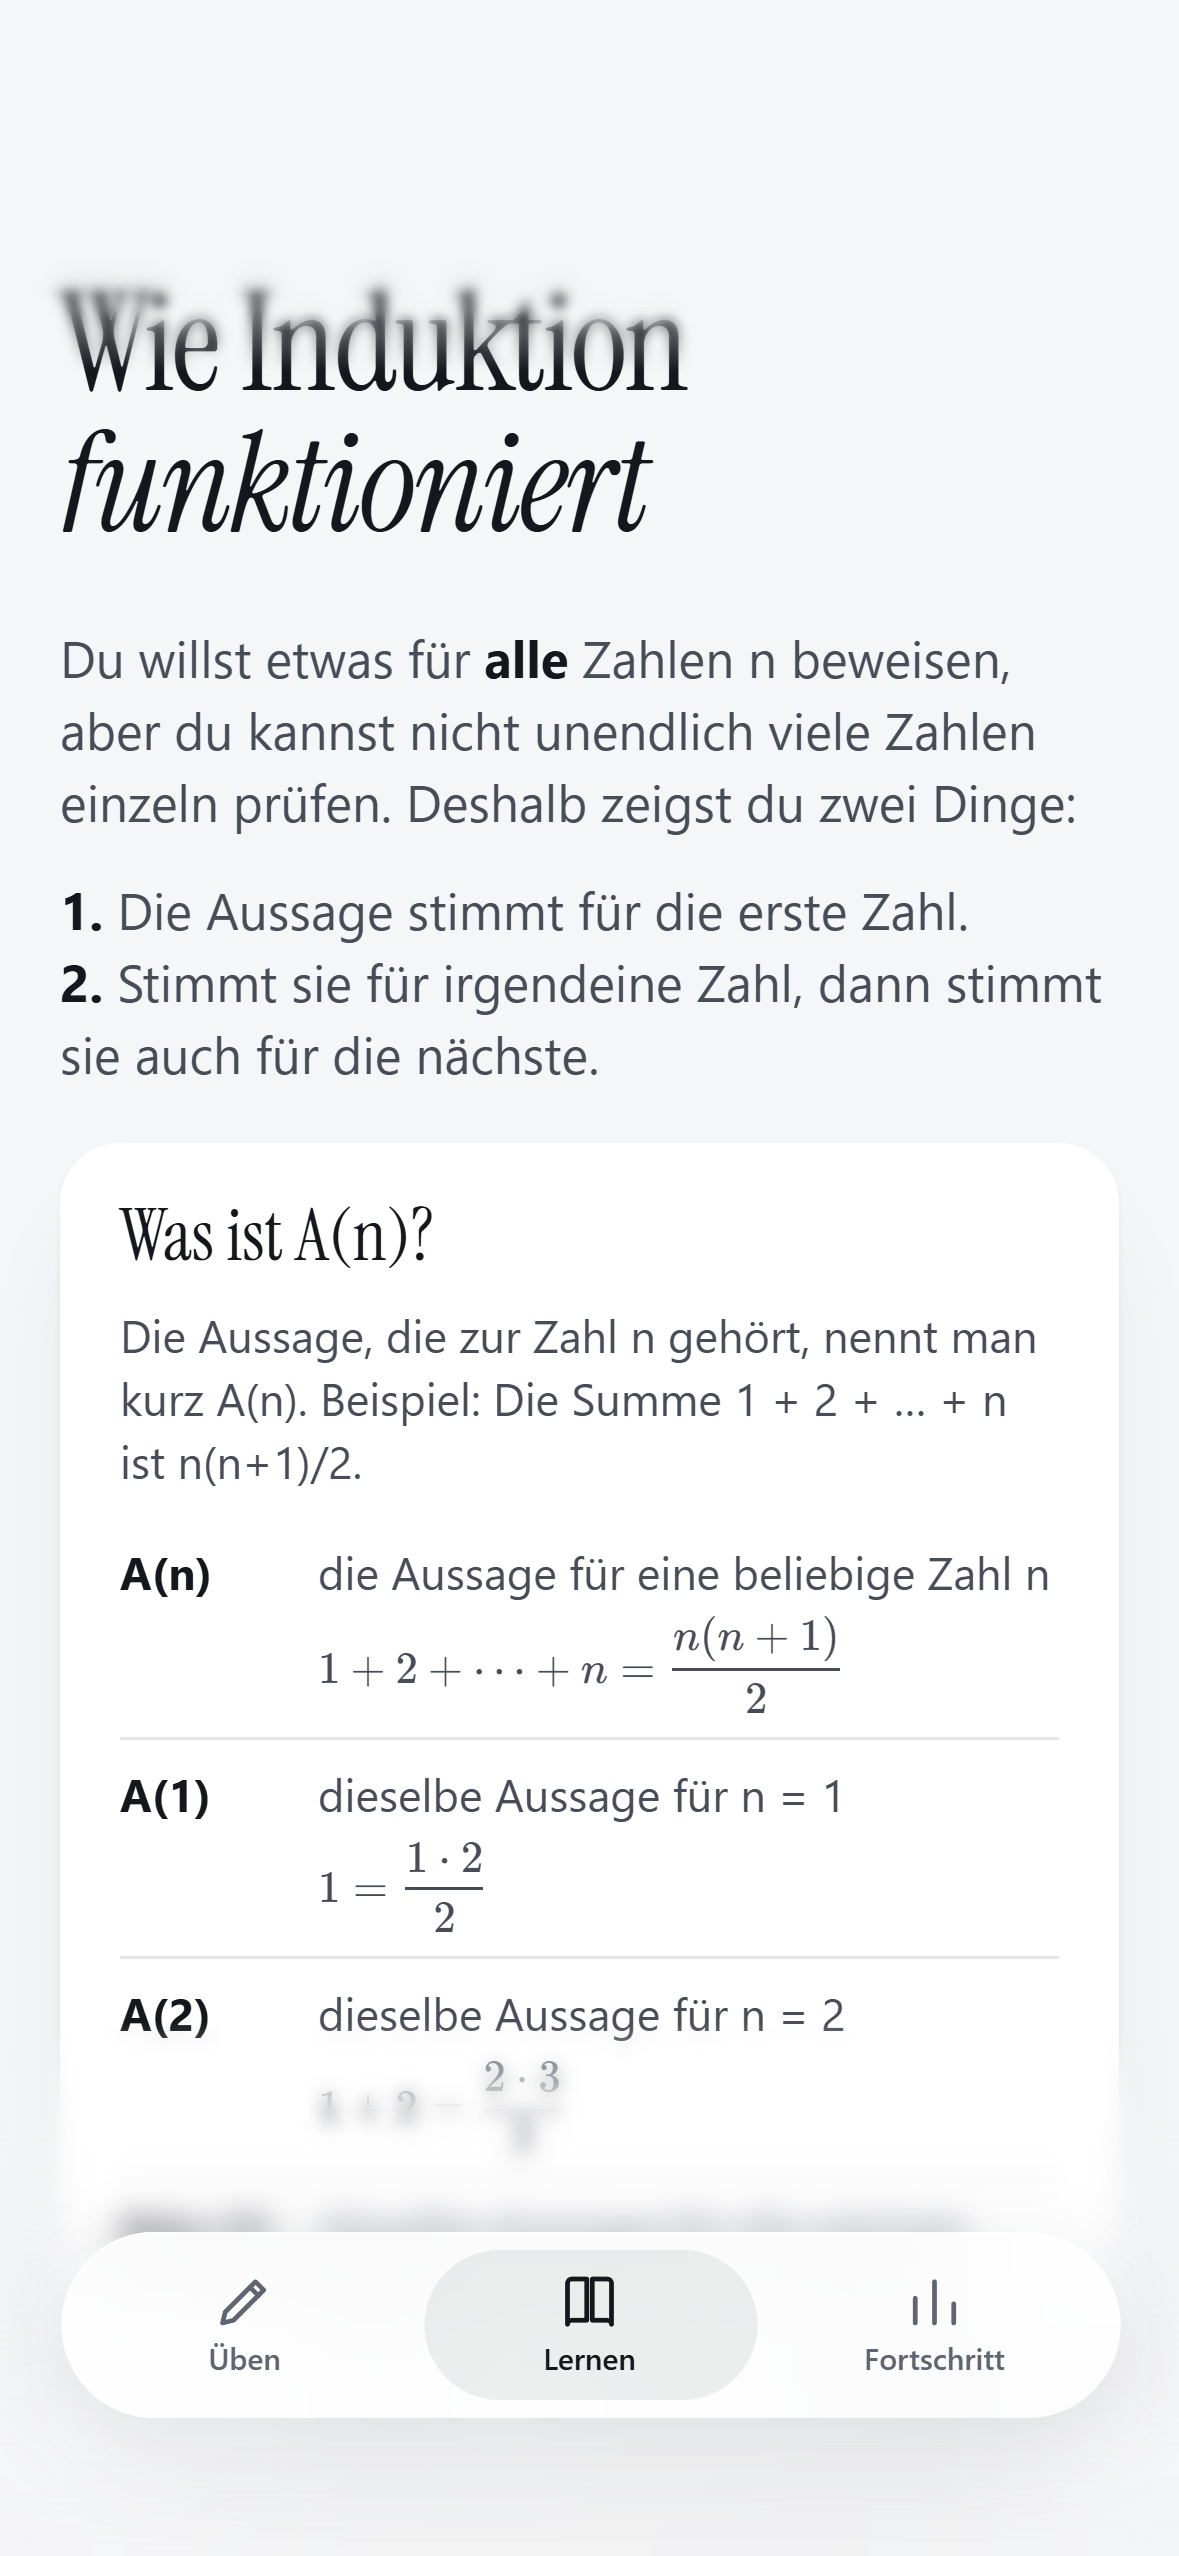
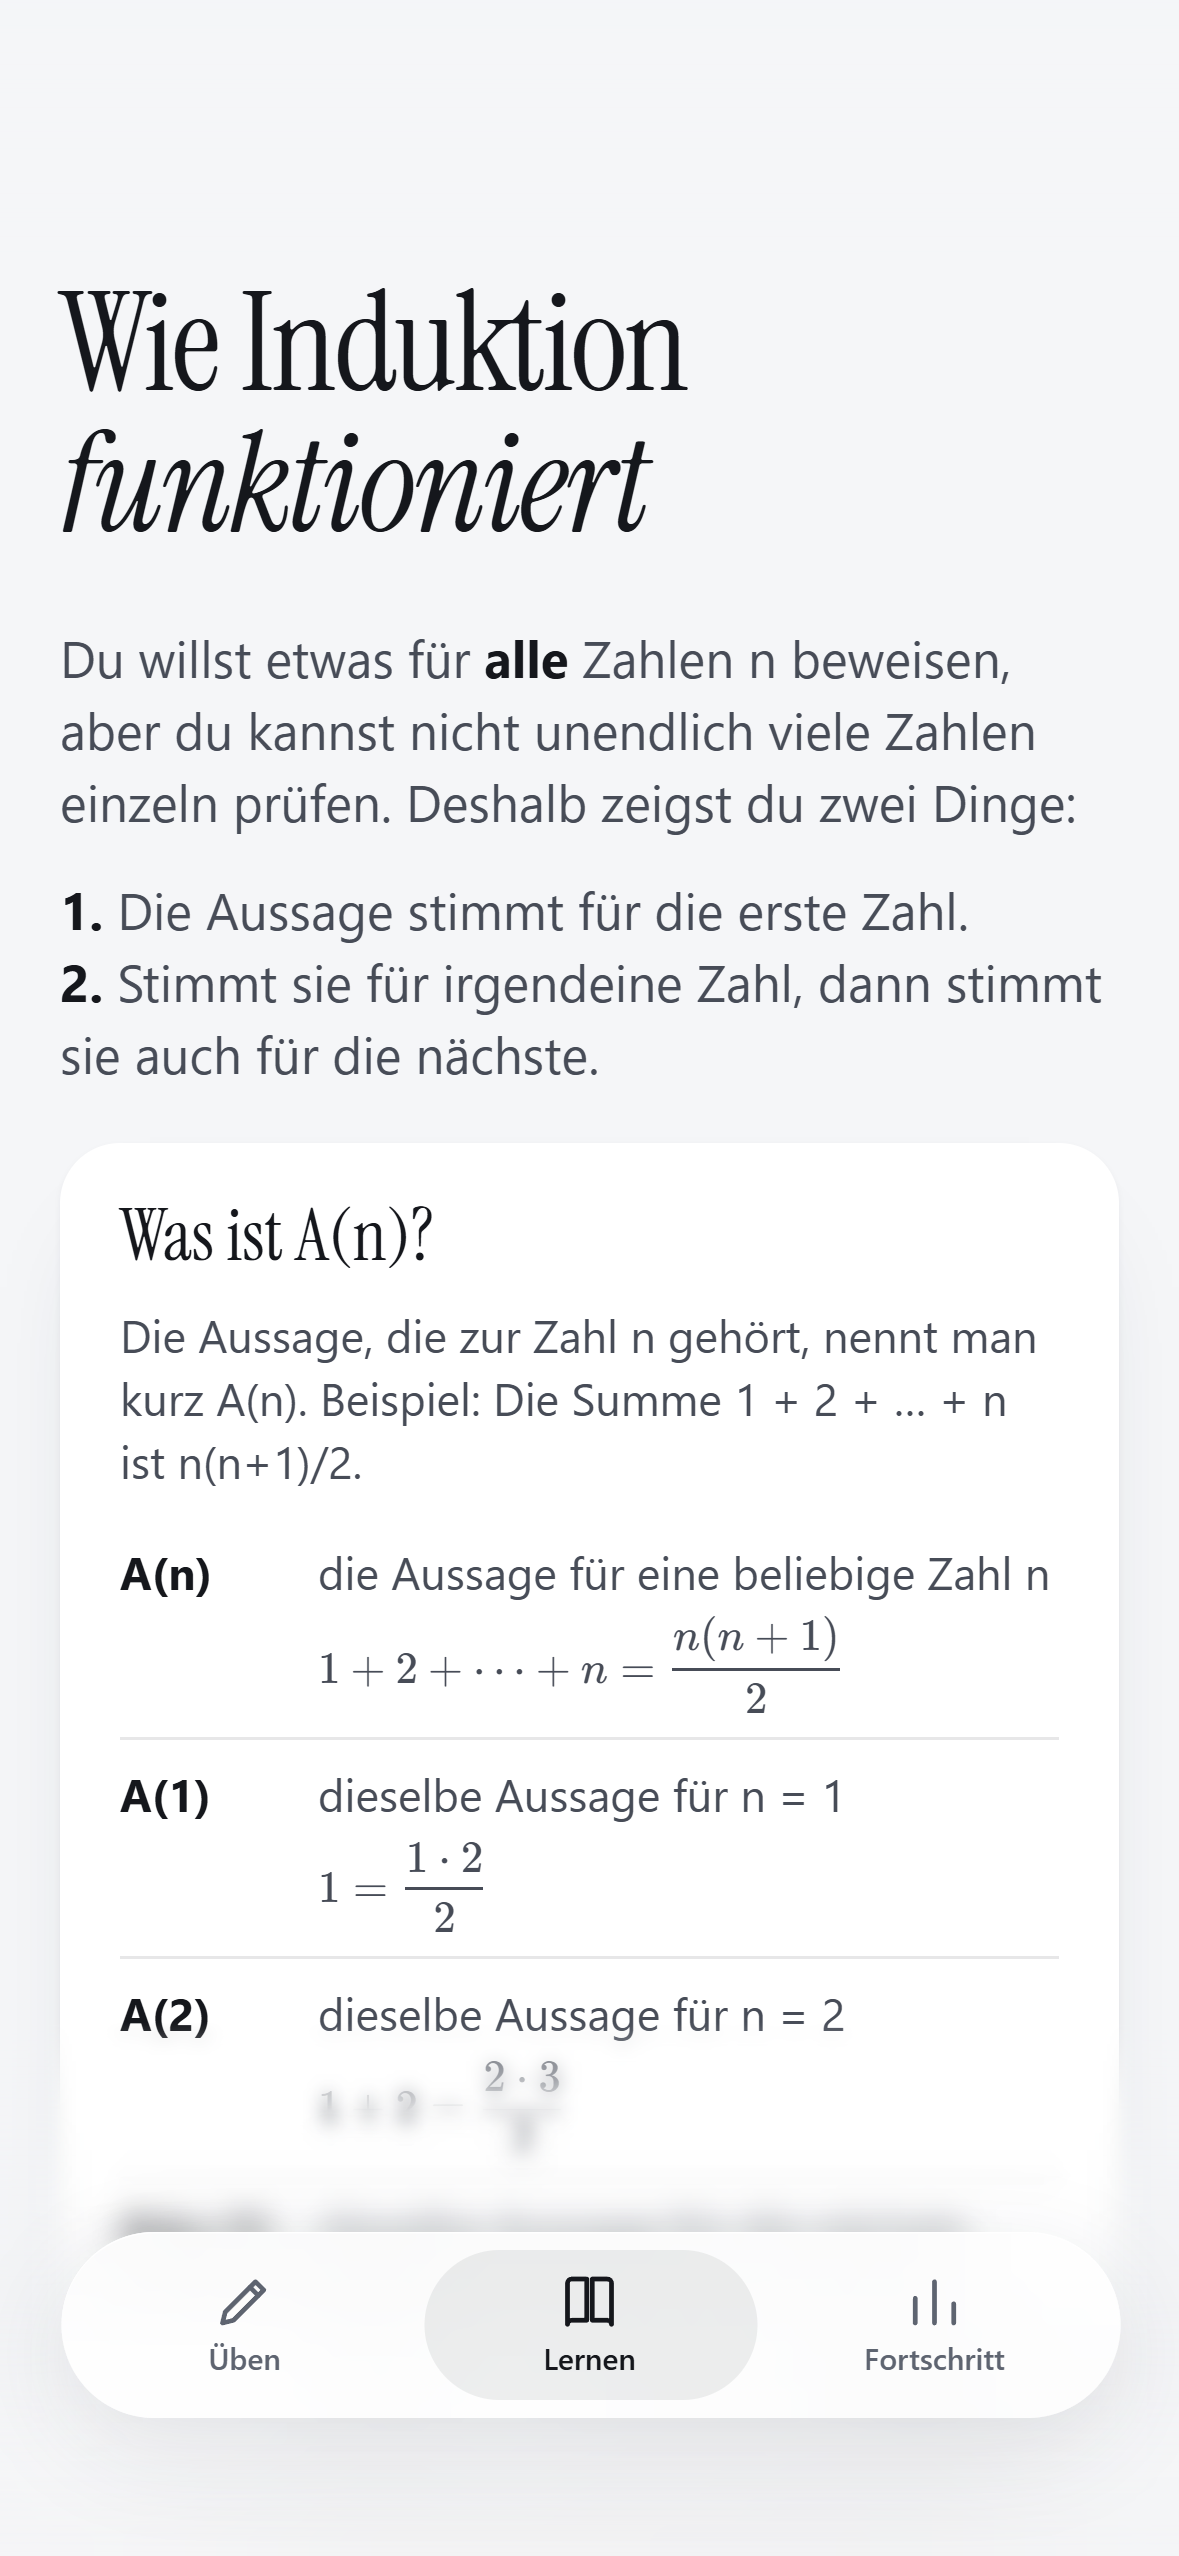
fix: Seitentitel nicht mehr vom oberen Blur erfasst, Screens neu

Changed region(s): [[0.2137, 0.0927, 0.5802, 0.1545], [0.0305, 0.0927, 0.1832, 0.1545]]

diff --git a/app/js/app.js b/app/js/app.js
@@ -327,7 +327,7 @@ addEventListener("hashchange", () => (document.startViewTransition && !calm.matc
 addEventListener("resize", refit);
 document.fonts?.addEventListener?.("loadingdone", refit);
 document.fonts?.ready.then(refit);
-gradualBlur("top", { height: "calc(var(--sat) + 3.8rem)", strength: 1.2 });
+gradualBlur("top", { height: "calc(var(--sat) + 1.6rem)", strength: 1.2 });
 gradualBlur("bottom", { height: "calc(var(--sab) + 8.5rem)", strength: 1.8 });
 applyTheme();
 initHaptics();
